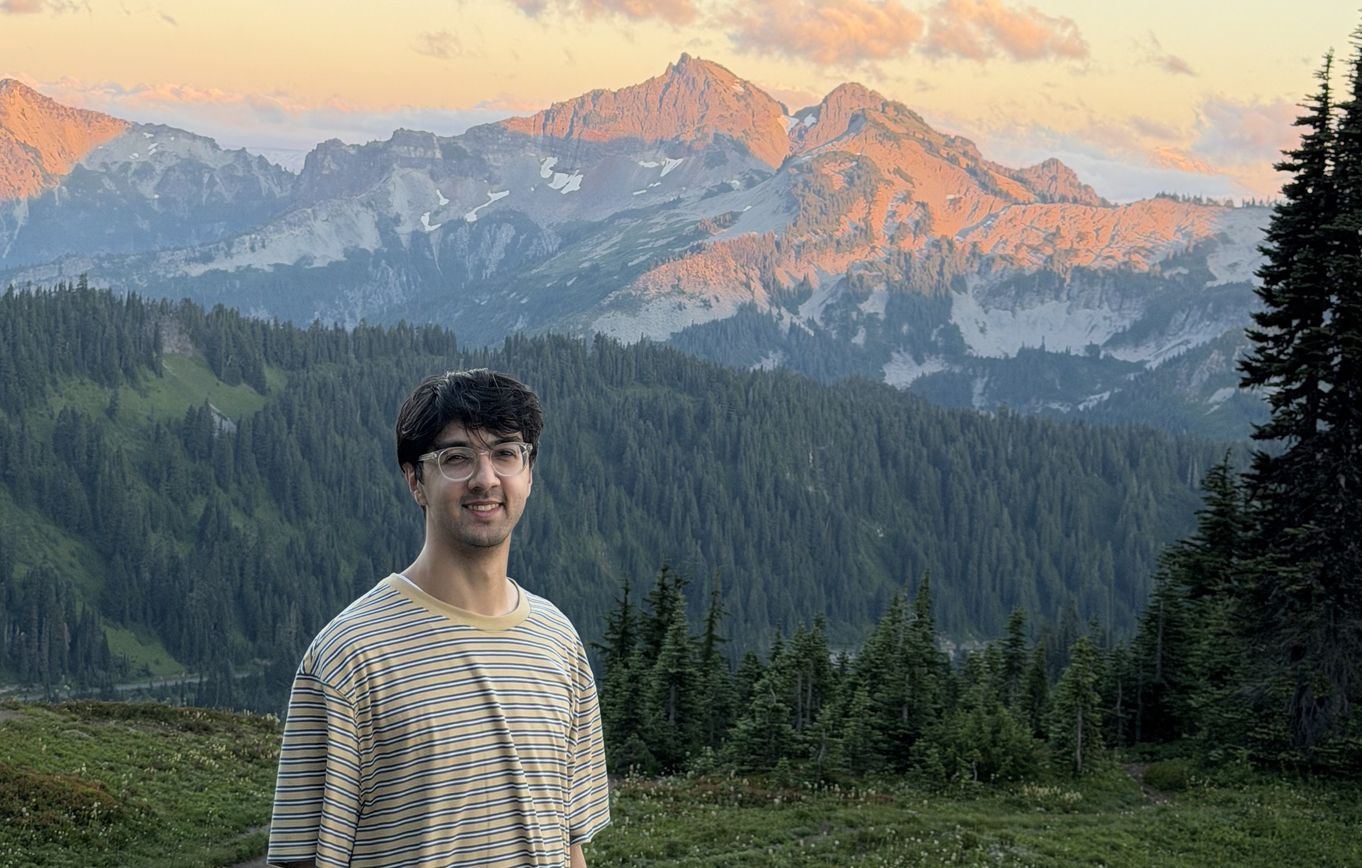
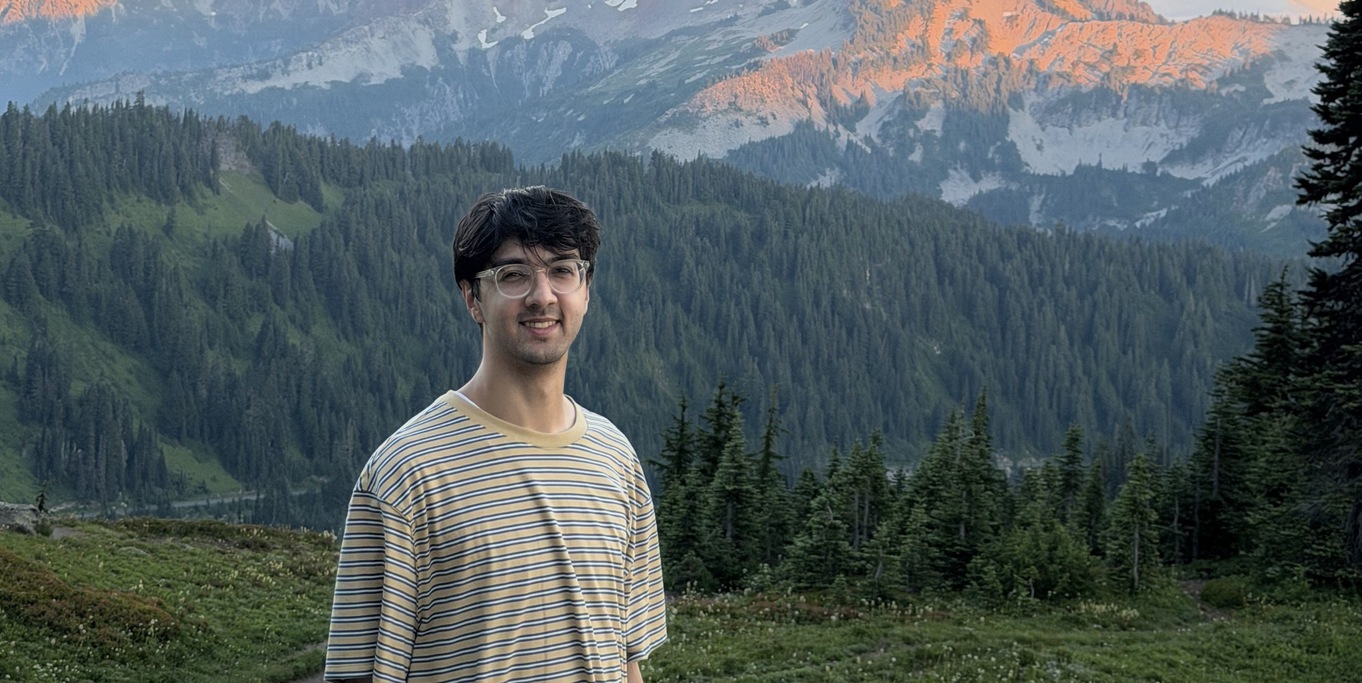
Mobile hero: slide image up (re-crop y 1800-3180, face 43% of frame)

diff --git a/src/pages/home/opening/styles/homepage.module.scss b/src/pages/home/opening/styles/homepage.module.scss
@@ -58,8 +58,8 @@
     min-height: 360px;
     width: 100%;
     background-image: linear-gradient(180deg, rgba(16, 32, 52, 0.12) 40%, rgba(16, 32, 52, 0.9) 100%), url("../images/hero-mobile.jpg");
-    background-position: center, 32% 50%;
-    background-position-x: center, 32%;
+    background-position: center, 29% 50%;
+    background-position-x: center, 29%;
     background-position-y: center, 50%;
   }
 
